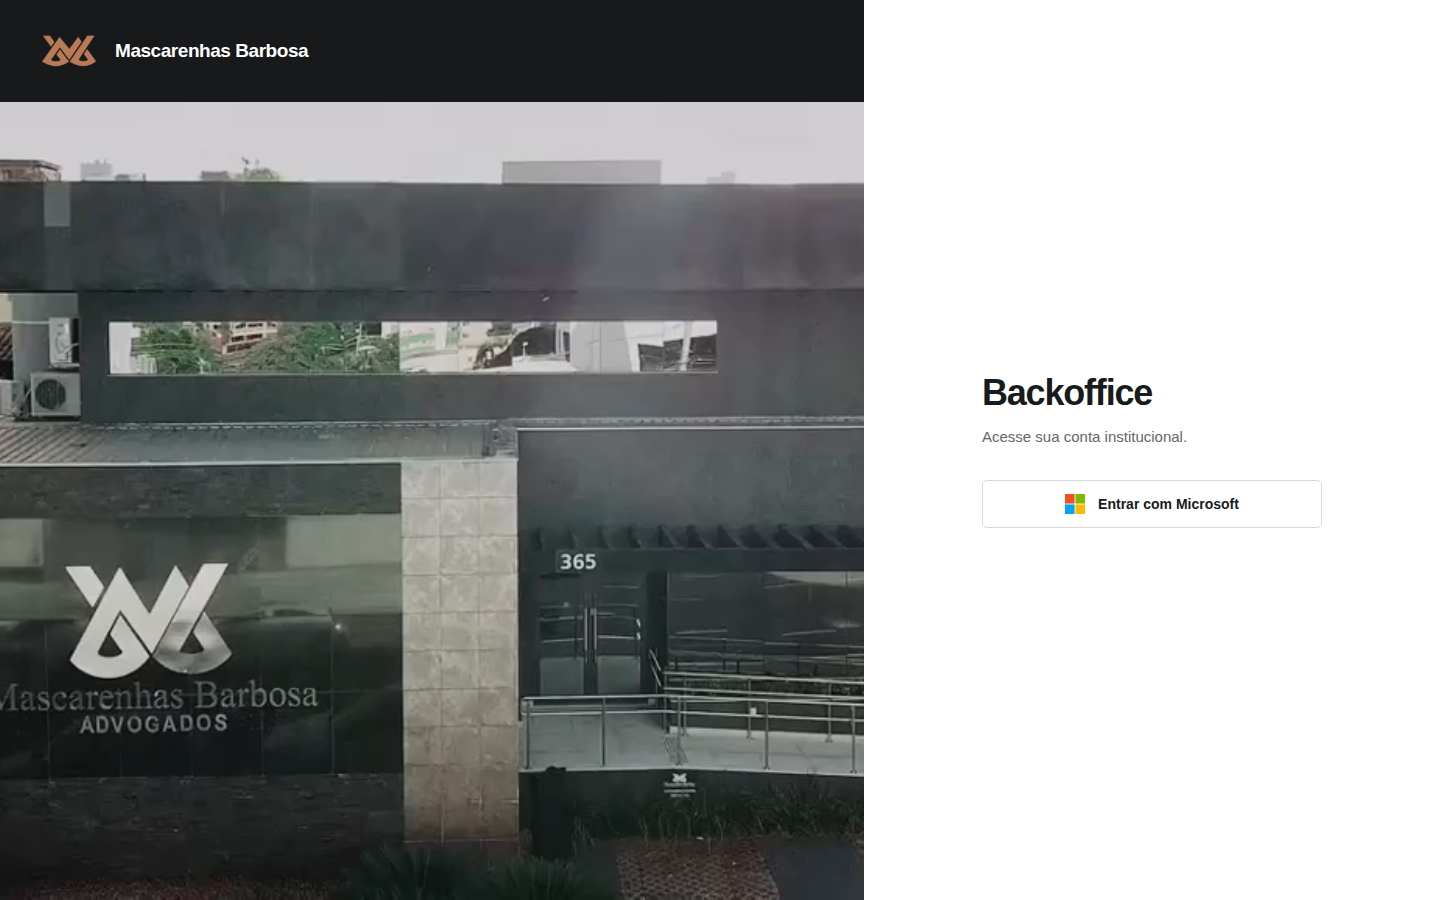
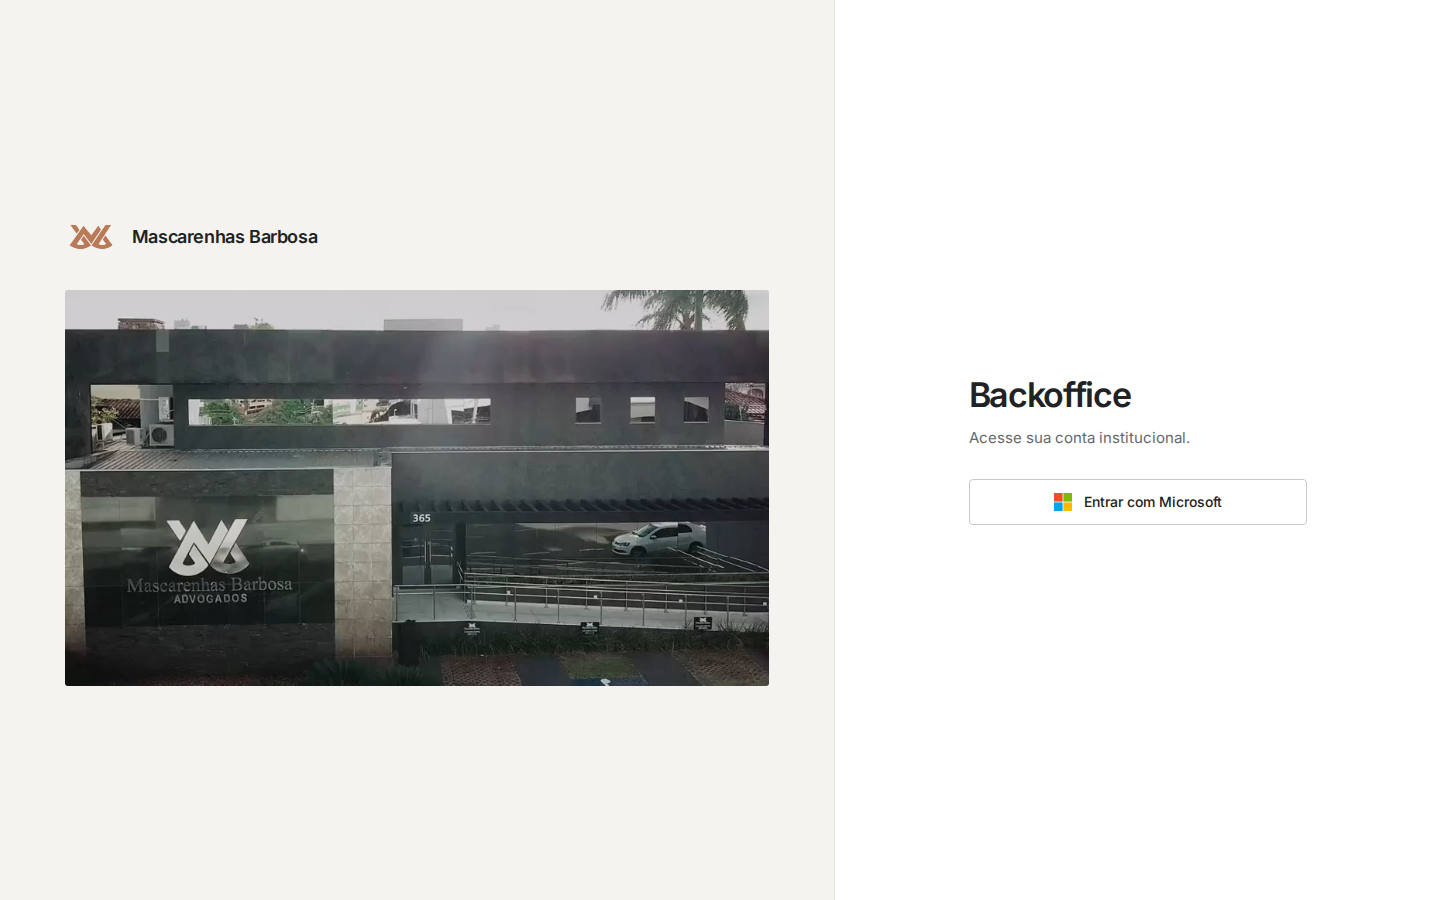
design: rebalance login composition and preserve video framing

diff --git a/prototypes/landing.html b/prototypes/landing.html
@@ -5,37 +5,42 @@
 <meta name="viewport" content="width=device-width,initial-scale=1">
 <title>Backoffice | Mascarenhas Barbosa</title>
 <link rel="icon" href="../favicon-copper.svg">
+<link rel="preconnect" href="https://fonts.googleapis.com">
+<link rel="preconnect" href="https://fonts.gstatic.com" crossorigin>
+<link href="https://fonts.googleapis.com/css2?family=Inter:wght@400;500;600&display=swap" rel="stylesheet">
 <style>
-:root{color-scheme:light;--ink:#181b1d;--muted:#62676a;--line:#d8dbdc;--paper:#fff;--brand:#b97a58;--video-bg:#17191b}
+:root{color-scheme:light;--ink:#202224;--muted:#66696b;--line:#dededb;--paper:#fff;--institution:#f4f3f0;--brand:#b97a58}
 *{box-sizing:border-box}
-html,body{margin:0;min-height:100%;font-family:Inter,-apple-system,BlinkMacSystemFont,"Segoe UI",Arial,sans-serif;color:var(--ink);background:var(--paper);-webkit-font-smoothing:antialiased}
-.layout{min-height:100vh;min-height:100svh;display:grid;grid-template-columns:60% 40%}
-.institution{display:flex;flex-direction:column;min-width:0;background:var(--video-bg);color:#fff}
-.brand{display:flex;align-items:center;gap:17px;padding:22px 40px;min-height:92px}
-.brand img{width:58px;height:58px;object-fit:contain;display:block}
-.brand-name{font-size:19px;letter-spacing:-.45px;font-weight:550}
-.film{position:relative;flex:1;min-height:0;overflow:hidden;background:var(--video-bg)}
-.film video{display:block;position:absolute;inset:0;width:100%;height:100%;object-fit:cover;object-position:25% 50%}
-.access{min-width:0;display:flex;align-items:center;justify-content:center;padding:48px 44px;position:relative}
-.access-inner{width:100%;max-width:340px}
-h1{font-size:36px;line-height:1.15;letter-spacing:-1.2px;font-weight:550;margin:0 0 12px}
-.description{font-size:15px;color:var(--muted);line-height:1.55;margin:0 0 32px}
-.microsoft{display:flex;align-items:center;justify-content:center;gap:13px;width:100%;min-height:48px;padding:12px 18px;border:1px solid var(--line);border-radius:5px;background:var(--paper);font:inherit;font-size:14px;font-weight:550;color:var(--ink);cursor:pointer}
-.microsoft:hover{background:#f5f5f4;border-color:#a8aaac}
+html,body{margin:0;min-height:100%;font-family:Inter,system-ui,-apple-system,BlinkMacSystemFont,"Segoe UI",sans-serif;color:var(--ink);background:var(--paper);-webkit-font-smoothing:antialiased}
+.layout{min-height:100vh;min-height:100svh;display:grid;grid-template-columns:58% 42%}
+.institution{display:grid;align-content:center;min-width:0;padding:56px clamp(36px,4.5vw,80px);background:var(--institution);border-right:1px solid #e8e6e2}
+.institution-inner{width:100%;max-width:910px;margin-inline:auto}
+.brand{display:flex;align-items:center;gap:15px;margin:0 0 30px;min-height:46px}
+.brand img{width:52px;height:46px;object-fit:contain;display:block}
+.brand-name{font-size:18px;letter-spacing:-.4px;font-weight:600;line-height:1.3}
+.film{margin:0;width:100%;aspect-ratio:910/512;background:#e6e3df;overflow:hidden;border-radius:3px}
+.film video{display:block;width:100%;height:100%;object-fit:contain}
+.access{min-width:0;display:grid;align-content:center;justify-items:center;padding:56px clamp(32px,4.5vw,72px)}
+.access-inner{width:100%;max-width:338px}
+h1{font-size:34px;line-height:1.2;letter-spacing:-1.3px;font-weight:600;margin:0 0 10px}
+.description{font-size:15px;color:var(--muted);line-height:1.6;margin:0 0 29px}
+.microsoft{display:flex;align-items:center;justify-content:center;gap:12px;width:100%;min-height:46px;padding:12px 16px;border:1px solid #c8cac9;border-radius:4px;background:var(--paper);font:inherit;font-size:14px;font-weight:500;color:var(--ink);cursor:pointer}
+.microsoft:hover{background:#f5f5f4;border-color:#999b9a}
 .microsoft:focus-visible{outline:2px solid #946044;outline-offset:3px}
-.microsoft svg{width:20px;height:20px;flex:none}
-.status{font-size:13px;color:var(--muted);line-height:1.5;margin:14px 0 0}
-.status[hidden]{display:none}
-@media(max-width:900px){.layout{grid-template-columns:54% 46%}.brand{padding:20px 26px}.access{padding:40px 30px}}
-@media(max-width:650px){.layout{grid-template-columns:1fr;grid-template-rows:auto minmax(300px,1fr)}.brand{padding:14px 22px;min-height:64px;gap:12px}.brand img{width:43px;height:43px}.brand-name{font-size:16px}.film{height:clamp(180px,34svh,280px);flex:none}.access{padding:60px 28px 58px;align-items:flex-start}.access-inner{max-width:390px}h1{font-size:32px}.description{margin-bottom:26px}}
-@media(prefers-reduced-motion:reduce){.film video{display:none}.film{background:var(--video-bg) url('../assets/mascarenhas-login-poster.jpg') center/cover no-repeat}}
+.microsoft svg{width:18px;height:18px;flex:none}
+.status{font-size:13px;color:var(--muted);line-height:1.5;margin:14px 0 0}.status[hidden]{display:none}
+@media(max-width:900px){.layout{grid-template-columns:55% 45%}.institution{padding:40px 28px}.access{padding:40px 28px}.brand{margin-bottom:24px}}
+@media(max-width:650px){.layout{grid-template-columns:1fr;grid-template-rows:auto 1fr}.institution{padding:26px 24px 28px;border-right:0;border-bottom:1px solid #e8e6e2}.brand{margin-bottom:20px;gap:12px;min-height:36px}.brand img{width:42px;height:36px}.brand-name{font-size:16px}.access{padding:48px 28px 58px;align-content:start}.access-inner{max-width:390px}h1{font-size:30px}.description{margin-bottom:24px}}
+@media(prefers-reduced-motion:reduce){.film video{display:none}.film{background:#e6e3df url('../assets/mascarenhas-login-poster.jpg') center/contain no-repeat}}
 </style>
 </head>
 <body>
 <main class="layout">
 <section class="institution" aria-label="Mascarenhas Barbosa">
+<div class="institution-inner">
 <header class="brand"><img src="../favicon-copper.svg" alt=""><span class="brand-name">Mascarenhas Barbosa</span></header>
 <div class="film"><video autoplay muted loop playsinline preload="metadata" poster="../assets/mascarenhas-login-poster.jpg" aria-label="Vídeo institucional do Mascarenhas Barbosa"><source src="../assets/mascarenhas-login.mp4" type="video/mp4"></video></div>
+</div>
 </section>
 <section class="access" aria-labelledby="access-title">
 <div class="access-inner">
